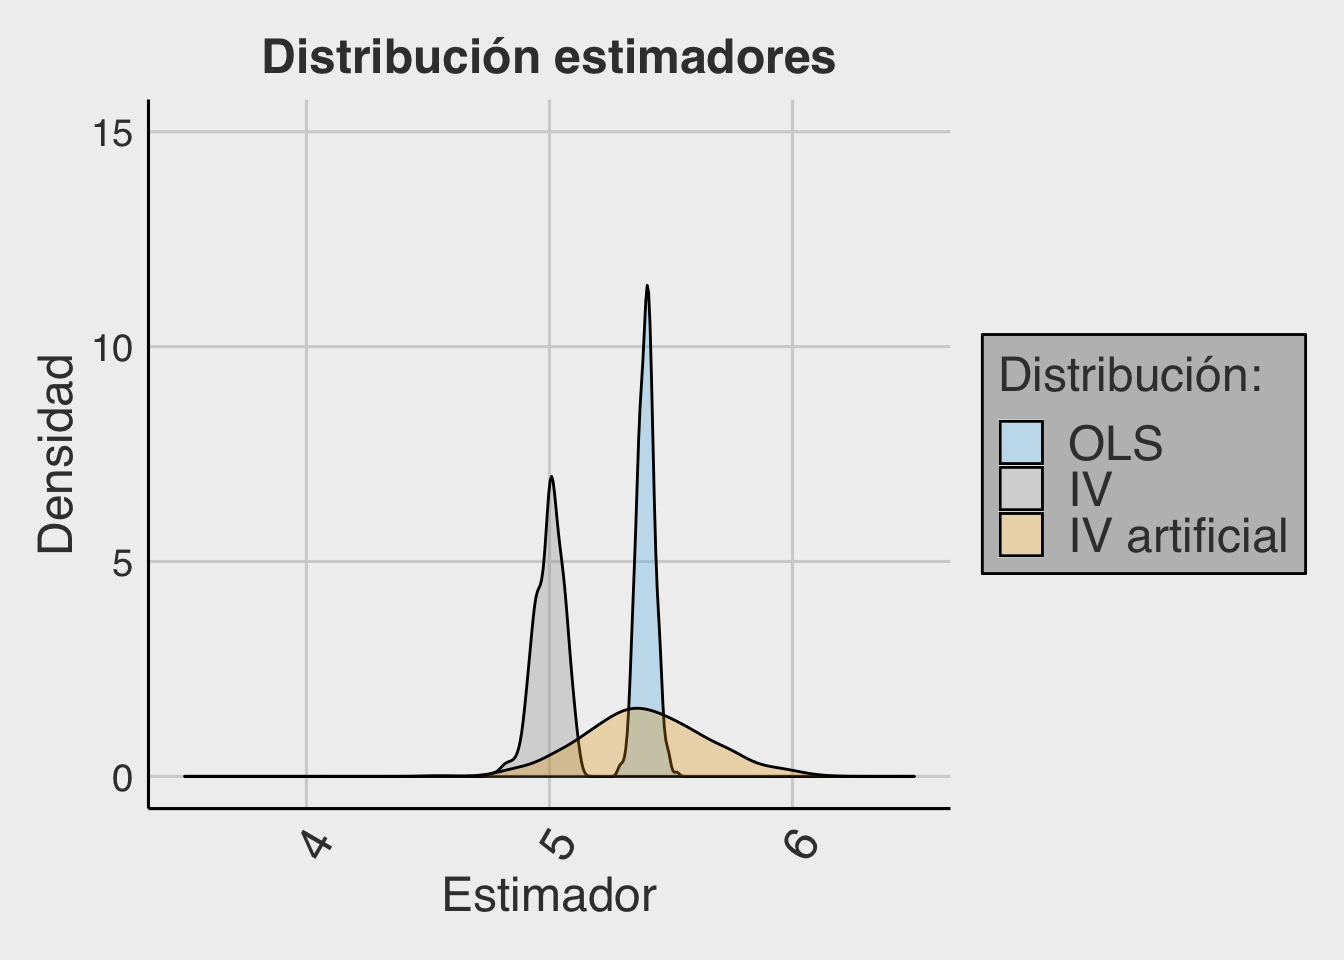
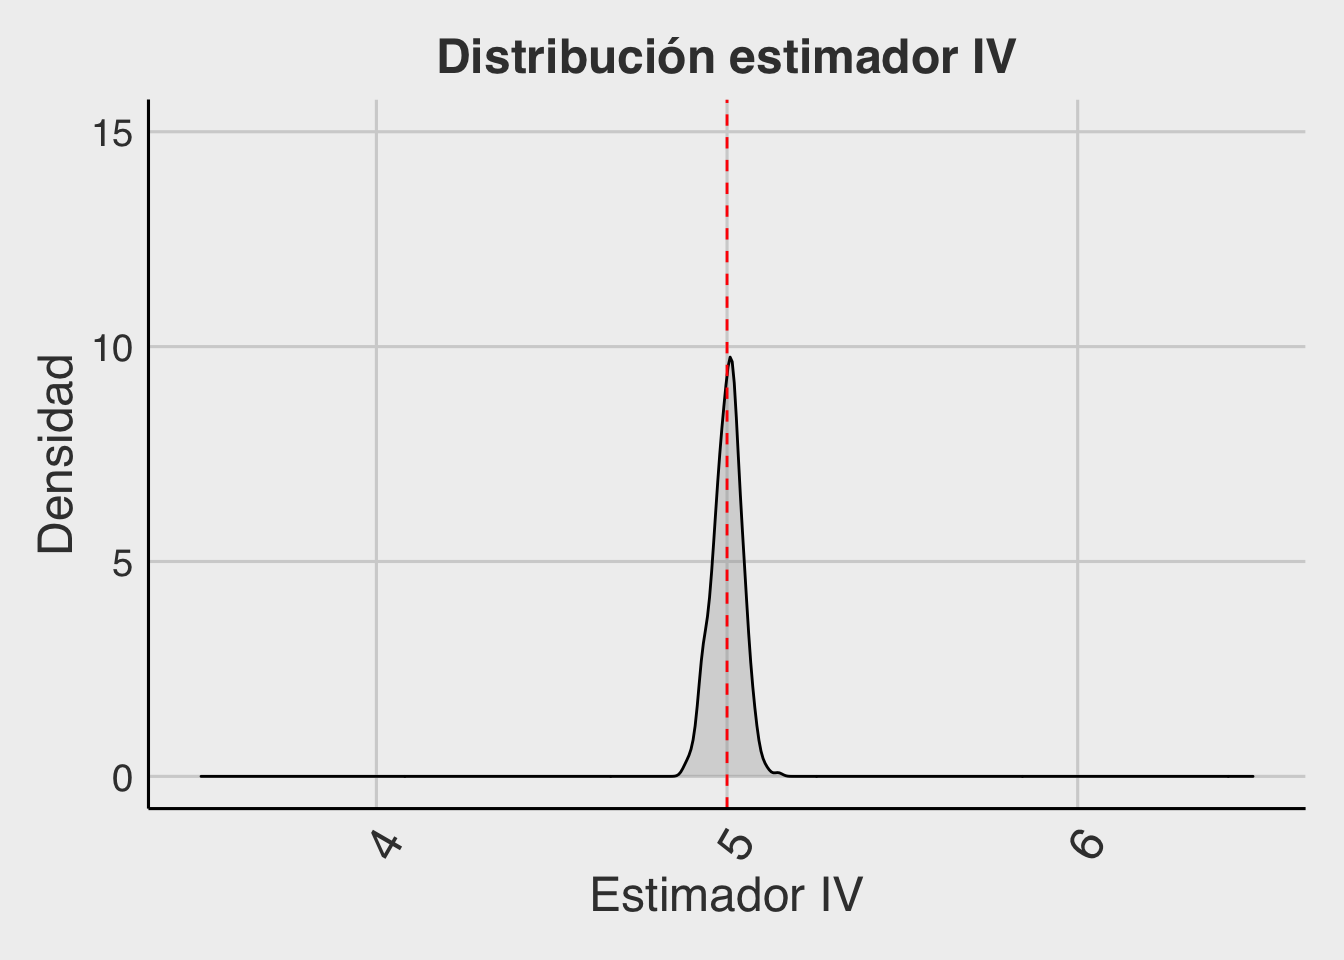
graficos

diff --git a/docs/2SLS.html b/docs/2SLS.html
@@ -323,9 +323,6 @@ div.tocify {
 <li>
   <a href="2SLS.html">2SLS</a>
 </li>
-<li>
-  <a href="Links.html">Links</a>
-</li>
       </ul>
       <ul class="nav navbar-nav navbar-right">
         
@@ -365,6 +362,42 @@ body {
 Z &lt;- rnorm(300,0,1)</code></pre>
 <p>Para construir la endogeneidad en <span class="math inline">\(X_i\)</span>, simularemos ambos errores no observables (<span class="math inline">\(u_i\)</span>, <span class="math inline">\(v_i\)</span>), en base a una misma distribución normal bivariada, con una correlación entre -1 y 1. Al presentar esta correlación entre los errores, en la ecuación (1) la variable <span class="math inline">\(X_i\)</span> (generada en base al error <span class="math inline">\(v_i\)</span>) se encuentra correlacionada con el error no observable de la ecuación (<span class="math inline">\(u_i\)</span>).</p>
 <p>Al estimar con OLS esta situación, es esperable que entregue un estimador sesgado, es decir, que su valor esperado no esté en el valor real (por construcción <span class="math inline">\(\beta = 5\)</span>). Para evaluar esto, correremos 400 simulaciones del caso recién descrito, estimando cada vez <span class="math inline">\((\beta_{OLS})\)</span>. Observa que ocurre en <a href="https://a2ic.shinyapps.io/grafico_errores_sesgo/#section-gráfico-interactivo">el gráfico.</a> ¿Cuál es la relación entre la correlación de los errores simulados y el sesgo?</p>
+<pre class="r"><code># Para replicar el gráfico
+beta=5
+lambda=1
+gamma=1
+delta=1
+corrvalue=0.5
+B_OLS &lt;-rep(0,400) #se guardarán acá los betas_OLS con Z original
+for(i in 1:400){ #hacemos 400 simulaciones
+  Q&lt;-rnorm(300,0,1) #Una variable de distribución normal con 300 valores
+  Z&lt;-rnorm(300,0,1) #Una variable de distribución normal con 300 valores
+  sigma &lt;- matrix(c(1,corrvalue,corrvalue,1), ncol=2) 
+  epsilon &lt;- rmvnorm(n=300, mean=c(0,0), sigma=sigma) #Este es el origen de la endogeneidad
+  u=epsilon[,1] 
+  e=epsilon[,2] 
+  X=gamma*Z+delta*Q+e #Calculamos X en función de las simulaciones Z, Q y e
+  Y=beta*X+lambda*Q+u #Calculamos Y en función de X y las simulaciones Q, y u
+  reg1&lt;-lm(Y~X+Q) #Estimamos el valor de beta y de lambda de las ecuaciones
+  B_OLS[i]&lt;-summary(reg1)$coefficients[2,1] #guardamos beta, que debe ser cercano a 5 pero sesgado
+}
+
+ggplot(as.data.frame(B_OLS)) + 
+  aes(B_OLS)+
+  geom_density(alpha=0.3, fill= &quot;#56B4E9&quot;) +
+  geom_vline(xintercept=5, linetype=&quot;dashed&quot;, color=&quot;red&quot;)+
+  theme_fivethirtyeight()+ 
+  theme(panel.grid.major = element_blank(),
+      axis.line = element_line(colour = &quot;black&quot;), 
+      plot.title = element_text(hjust = 0.5,size=18), 
+      text = element_text(size=18), 
+      axis.title = element_text(),
+      axis.text.x = element_text(angle=60, hjust=1,size=18)) + 
+  xlim(3.5,6.5) + ylim(0,15)+
+  labs(x=&quot;Estimador OLS&quot;, #agrega etiqueta del eje X
+     y=&quot;Densidad&quot;, #agrega etiqueta del eje y
+     title=&quot;Distribución estimador OLS&quot;)
+})</code></pre>
 <p><span class="math display">\[\\[1in]\]</span></p>
 </div>
 <div id="variables-instrumentales" class="section level1">
@@ -374,11 +407,45 @@ Z &lt;- rnorm(300,0,1)</code></pre>
 <p>Siguiendo con la simulación de la sección anterior, ya notamos que existe un sesgo en el estimador de OLS, que depende en gran medida de la magnitud de la correlación entre el regresor endógeno (<span class="math inline">\(X_i\)</span>) y el error no observable.</p>
 <p><span class="math display">\[ X_i = \gamma Z_i + \delta Q_i + v_i \hspace{0.3 cm} (2) \]</span></p>
 <p><span class="math display">\[  Y_i = \beta X_i + \lambda Q_i + u_i \hspace{0.3 cm} (1)\]</span></p>
-<p>Ahora probaremos utilizando la variable <span class="math inline">\(Z_i\)</span> como instrumento de la variable <span class="math inline">\(X_i\)</span>. En nuestra simulación, <span class="math inline">\(Z\)</span> fue contruida de forma completamente exógena. Además, fue parte de la definición de <span class="math inline">\(X_i\)</span>, por lo que cumple también con ser un instrumento relevante.</p>
+<p>Ahora probaremos utilizando la variable <span class="math inline">\(Z_i\)</span> como instrumento de la variable <span class="math inline">\(X_i\)</span>. En nuestra simulación, <span class="math inline">\(Z\)</span> fue construida de forma completamente exógena. Además, fue parte de la definición de <span class="math inline">\(X_i\)</span>, por lo que cumple también con ser un instrumento relevante.</p>
 <p>La función que utilizaremos para realizar 2SLS será:</p>
 <pre class="r"><code>reg_vi &lt;- ivreg(Y ~ X + Q | Z + Q)</code></pre>
 <p>Esta vez, nos concentraremos en la varianza de nuestro estimador. La simulación genera 400 iteraciones de una mismo escenario. Al mirar el gráfico se puede ver que, aunque la varianza cambie, el promedio o valor medio siempre está en torno al valor 5, que es, el valor definido del parámetro <span class="math inline">\(\beta = 5\)</span>. ¿El método de VI logra corregir el sesgo de endogeneidad? ¿Qué ocurrirá si se aumenta el tamaño de la muestra en cada escenario?</p>
-<p><img src="2SLS_files/figure-html/unnamed-chunk-1-1.png" width="672" /></p>
+<pre class="r"><code>beta=5
+lambda=1
+gamma=1
+delta=1
+tamanhomuestra=600
+B_IV &lt;-rep(0,400) #se guardarán acá los betas_OLS con Z original
+for(i in 1:400){ #hacemos 400 simulaciones
+  Q&lt;-rnorm(tamanhomuestra,0,1) #Una variable de distribución normal con N valores
+  Z&lt;-rnorm(tamanhomuestra,0,1) #Una variable de distribución normal con N valores
+  sigma &lt;- matrix(c(1,0.5, 0.5, 1), ncol=2) 
+  epsilon &lt;- rmvnorm(n=tamanhomuestra, mean=c(0,0), sigma=sigma) #Este es el origen de la endogeneidad
+  u=epsilon[,1] 
+  e=epsilon[,2] 
+  X=gamma*Z+delta*Q+e #Calculamos X en función de las simulaciones Z, Q y e
+  Y=beta*X+lambda*Q+u #Calculamos Y en función de X y las simulaciones Q, y u
+  reg2&lt;-ivreg(Y~X+Q|Z+Q) #Estimamos el valor de beta y de lambda de las ecuaciones mediante 2SLS
+  B_IV[i]&lt;-summary(reg2)$coefficients[2,1] #guardamos betas IV que es cercano a 5 e insesgado
+}
+
+ggplot(as.data.frame(B_IV)) + 
+aes(B_IV)+
+geom_density(alpha=0.3, fill=&quot;#999999&quot;) +
+geom_vline(xintercept=5, linetype=&quot;dashed&quot;, color=&quot;red&quot;)+
+theme_fivethirtyeight()+ 
+theme(panel.grid = element_blank(),
+    axis.line = element_line(colour = &quot;black&quot;), 
+    plot.title = element_text(hjust = 0.5,size=18), 
+    text = element_text(size=18), 
+    axis.title = element_text(),
+    axis.text.x = element_text(angle=60, hjust=1,size=18)) + 
+xlim(3.5,6.5) + ylim(0,15)+
+labs(x=&quot;Estimador IV&quot;, #agrega etiqueta del eje X
+   y=&quot;Densidad&quot;, #agrega etiqueta del eje y
+   title=&quot;Distribución estimador IV&quot;)</code></pre>
+<p><img src="2SLS_files/figure-html/unnamed-chunk-3-1.png" width="672" /></p>
 <p><span class="math display">\[\\[1in]\]</span></p>
 </div>
 </div>
@@ -400,9 +467,50 @@ while (significativo == 0) {                      #Se repite el loop hasta que s
   }
 }</code></pre>
 <p>Al realizar este ejercicio, se grafican los 400 valores del estimador <span class="math inline">\(\beta_Za\)</span>, tal y como se muestra a continuación:</p>
-<p><img src="2SLS_files/figure-html/unnamed-chunk-2-1.png" width="672" /></p>
+<pre class="r"><code>beta=5
+lambda=1
+gamma=1
+delta=1
+B_IVa &lt;-rep(0,400) #se guardarán acá los betas_IV aleatorios si es que son significativos
+for(i in 1:400){ #hacemos 400 simulaciones
+  Q&lt;-rnorm(300,0,1) #Una variable de distribución normal con 300 valores
+  Z&lt;-rnorm(300,0,1) #Una variable de distribución normal con 300 valores
+  sigma &lt;- matrix(c(1,0.85,0.85,1), ncol=2)
+  epsilon &lt;- rmvnorm(n=300, mean=c(0,0), sigma=sigma) #Este es el origen de la endogeneidad
+  u=epsilon[,1] 
+  e=epsilon[,2] 
+  X=gamma*Z+delta*Q+e #Calculamos X en función de las simulaciones Z, Q y e
+  Y=beta*X+lambda*Q+u #Calculamos Y en función de X y las simulaciones Q, y u
+  sig &lt;- 0
+  while (sig == 0) {
+    Za&lt;-rnorm(300,0,1) 
+    reg3&lt;-lm(X~Za)
+    b &lt;-summary(reg3)$coefficients[2,1] 
+    se &lt;-summary(reg3)$coefficients[2,2] 
+    if(abs(b)/se &gt; 1.96){ 
+      reg4&lt;-ivreg(Y~X+Q|Za+Q)
+      B_IVa[i]=summary(reg4)$coefficients[2,1]
+      sig &lt;- 1
+    }
+  }
+}
+ ggplot(as.data.frame(B_IVa)) + 
+    aes(B_IVa)+
+    geom_density(alpha=0.3, fill=&quot;#E69F00&quot;) +
+    geom_vline(xintercept=5, linetype=&quot;dashed&quot;, color=&quot;red&quot;)+
+    theme_fivethirtyeight() + 
+    theme(panel.grid = element_blank(),
+        axis.line = element_line(colour = &quot;black&quot;), 
+        plot.title = element_text(hjust = 0.5,size=18), 
+        text = element_text(size=18), 
+        axis.title = element_text(),
+        axis.text.x = element_text(angle=60, hjust=1,size=18)) + 
+    xlim(3.5,6.5) + ylim(0,15) +
+    labs(x=&quot;Estimador IV artificial&quot;, #agrega etiqueta del eje X
+       y=&quot;Densidad&quot;, #agrega etiqueta del eje y
+       title=&quot;Distribución estimador IV artificial&quot;)</code></pre>
+<p><img src="2SLS_files/figure-html/unnamed-chunk-4-1.png" width="672" /></p>
 <p>¿La estimación es insesgada? ¿Es eficiente? ¿Crees que funciona utilizar una simulación de un instrumento?</p>
-<p><span class="math display">\[\\[1in]\]</span></p>
 <p><span class="math display">\[\\[1in]\]</span></p>
 </div>
 </div>
@@ -410,7 +518,76 @@ while (significativo == 0) {                      #Se repite el loop hasta que s
 <h1><strong>Análisis conjunto</strong></h1>
 <p>Utilizar un instrumento artificial no funciona, pues aunque cada iteración en que se escoge aquella variable <span class="math inline">\(Za_i\)</span> que sí es relevante (porque está correlacionada con <span class="math inline">\(X_i\)</span>), no es posible asegurar que este NO esté correlacionado con el error no observado (<span class="math inline">\(u_i\)</span>). Lo anterior se debe a que la exogeneidad del instrumento (<span class="math inline">\(Cov(Za_i, u_i) = 0\)</span>) es imposible de construir ni de observar. Por lo tanto, para cada caso en que <span class="math inline">\(Za_i\)</span> es relevante, NO puede asegurarse que sea al mismo tiempo exógena en la misma medida. Van a ocurrir casos en que sí, van a ocurrir casos en que no, es por eso que el estimador sigue estando sesgado, y además, es poco eficiente.</p>
 <p>Esto se puede ver en el gráfico que junta las tres distribuciones para los escenarios simulados: OLS, VI, VI-artificial. Analice los gráficos. ¿Qué método entrega una estimación insesgada? ¿Qué método entrega una estimación eficiente?</p>
-<p><img src="2SLS_files/figure-html/unnamed-chunk-3-1.png" width="672" /></p>
+<pre class="r"><code>#Se inicializan los indicadores de acuerdo a lo propuesto en las ecuaciones
+beta=5
+lambda=1
+gamma=1
+delta=1
+
+nobs=300
+nrep=400
+
+betas1=matrix(data=NA,nrow=nrep,ncol=3)
+
+for(i in 1:nrep){
+  #generación de la distribución multivariada estandar, primera columna es &quot;e&quot; y segunda columan &quot;u&quot;
+  Errores=rmvnorm(nobs,mean=c(0,0),sigma=matrix(c(1,0.8,0.8,1),2,2))
+  #generación Q y Z
+  Q=rnorm(nobs,mean=0,sd=1)
+  Z=rnorm(nobs,mean=0,sd=1)
+  #Hacer la variable X
+  X=gamma*Z+delta*Q+Errores[,1]
+  Y=beta*X+lambda*Q+Errores[,2]
+  #Escenario OLS
+  ols=lm(Y~X+Q)
+  betas1[i,1]=ols$coefficients[2]
+  #Escenario 2SLS 1
+  sls&lt;-ivreg(Y~X+Q|Z+Q) #Estimamos el valor de beta y de lambda de las ecuaciones mediante 2SLS
+  betas1[i,2]=sls$coefficients[2]
+  #Escenario 2SLS 2
+  sig &lt;- 0
+  while (sig == 0) {
+    Za=rnorm(nobs,mean=0,sd=1)
+    fls2=lm(X~Za+Q)
+    stat.coef  &lt;- summary(fls2)$coefficients
+    coef    &lt;- stat.coef[,1]    #coeficientes 
+    se.coef &lt;- stat.coef[,2]    # error estandar para cada coef.
+    if(abs(coef[2]/se.coef[2]) &gt; 1.96){
+      sig &lt;- 1
+      ra &lt;- ivreg(Y~X+Q|Za+Q)
+      betas1[i,3]=ra$coefficients[2]
+    }
+  }
+  
+}
+
+betas1=data.frame(betas1)
+names(betas1) = c(&quot;Beta-ols&quot;,&quot;Beta-iv&quot;,&quot;Beta-iva&quot;)
+mediabetaols=round(mean(betas1[,1]),2)
+mediabetaiv=round(mean(betas1[,2]),2)
+mediabetaiva=round(mean(betas1[,3]),2)
+betas1 &lt;- stack(betas1)
+
+
+ggplot(betas1, aes(x=values)) + 
+  geom_density(aes(group=ind, fill=ind), alpha=0.3)+
+  theme_fivethirtyeight()+ #tema reconocido de la página &quot;fivethirtyeight&quot;
+  theme(panel.grid = element_blank(),
+        axis.line = element_line(colour = &quot;black&quot;), 
+        plot.title = element_text(hjust = 0.5,size=18), 
+        text = element_text(size=18), 
+        axis.title = element_text(),
+        axis.text.x = element_text(angle=60, hjust=1,size=18), 
+        legend.background = element_rect(fill=&quot;gray&quot;, size=0.5, linetype=&quot;solid&quot;, colour = &quot;black&quot;), 
+        legend.text = element_text(size = 18), 
+        legend.position = &quot;right&quot;, legend.direction = &quot;vertical&quot;)+ 
+  scale_fill_manual(labels =  c(&quot;OLS&quot;,&quot;IV&quot;,&quot;IV artificial&quot;),values=c(&quot;#56B4E9&quot;,&quot;#999999&quot;,&quot;#E69F00&quot;))+
+  labs(x=&quot;Estimador&quot;, #agrega etiqueta del eje X
+       y=&quot;Densidad&quot;, #agrega etiqueta del eje y
+       title=&quot;Distribución estimadores&quot;)+
+  guides(fill=guide_legend(title=&quot;Distribución:&quot;)) + 
+  xlim(3.5,6.5) + ylim(0,15)</code></pre>
+<p><img src="2SLS_files/figure-html/unnamed-chunk-5-1.png" width="672" /></p>
 </div>
 
 

diff --git a/docs/Links.html b/docs/Links.html
@@ -247,9 +247,6 @@ $(document).ready(function () {
 <li>
   <a href="2SLS.html">2SLS</a>
 </li>
-<li>
-  <a href="Links.html">Links</a>
-</li>
       </ul>
       <ul class="nav navbar-nav navbar-right">
         

diff --git a/docs/index.html b/docs/index.html
@@ -247,9 +247,6 @@ $(document).ready(function () {
 <li>
   <a href="2SLS.html">2SLS</a>
 </li>
-<li>
-  <a href="Links.html">Links</a>
-</li>
       </ul>
       <ul class="nav navbar-nav navbar-right">
         
